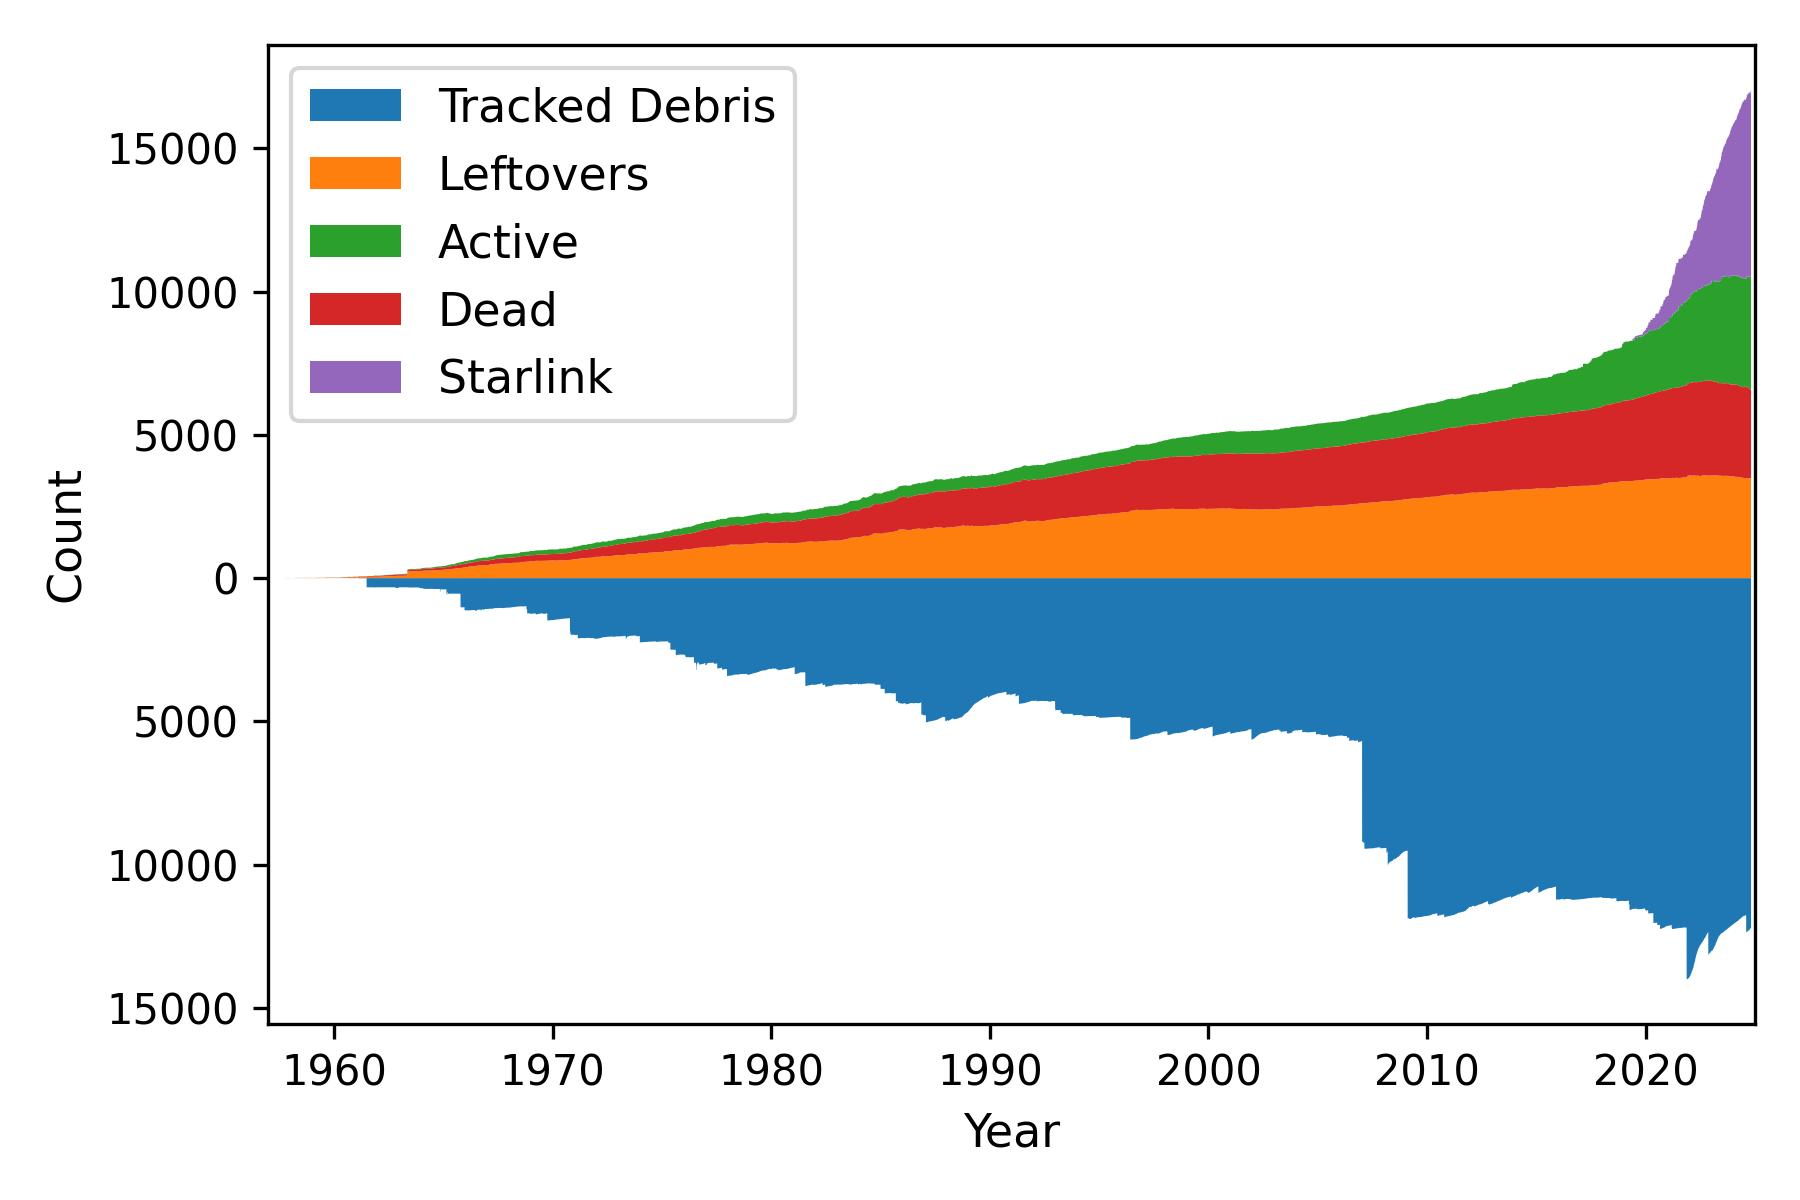
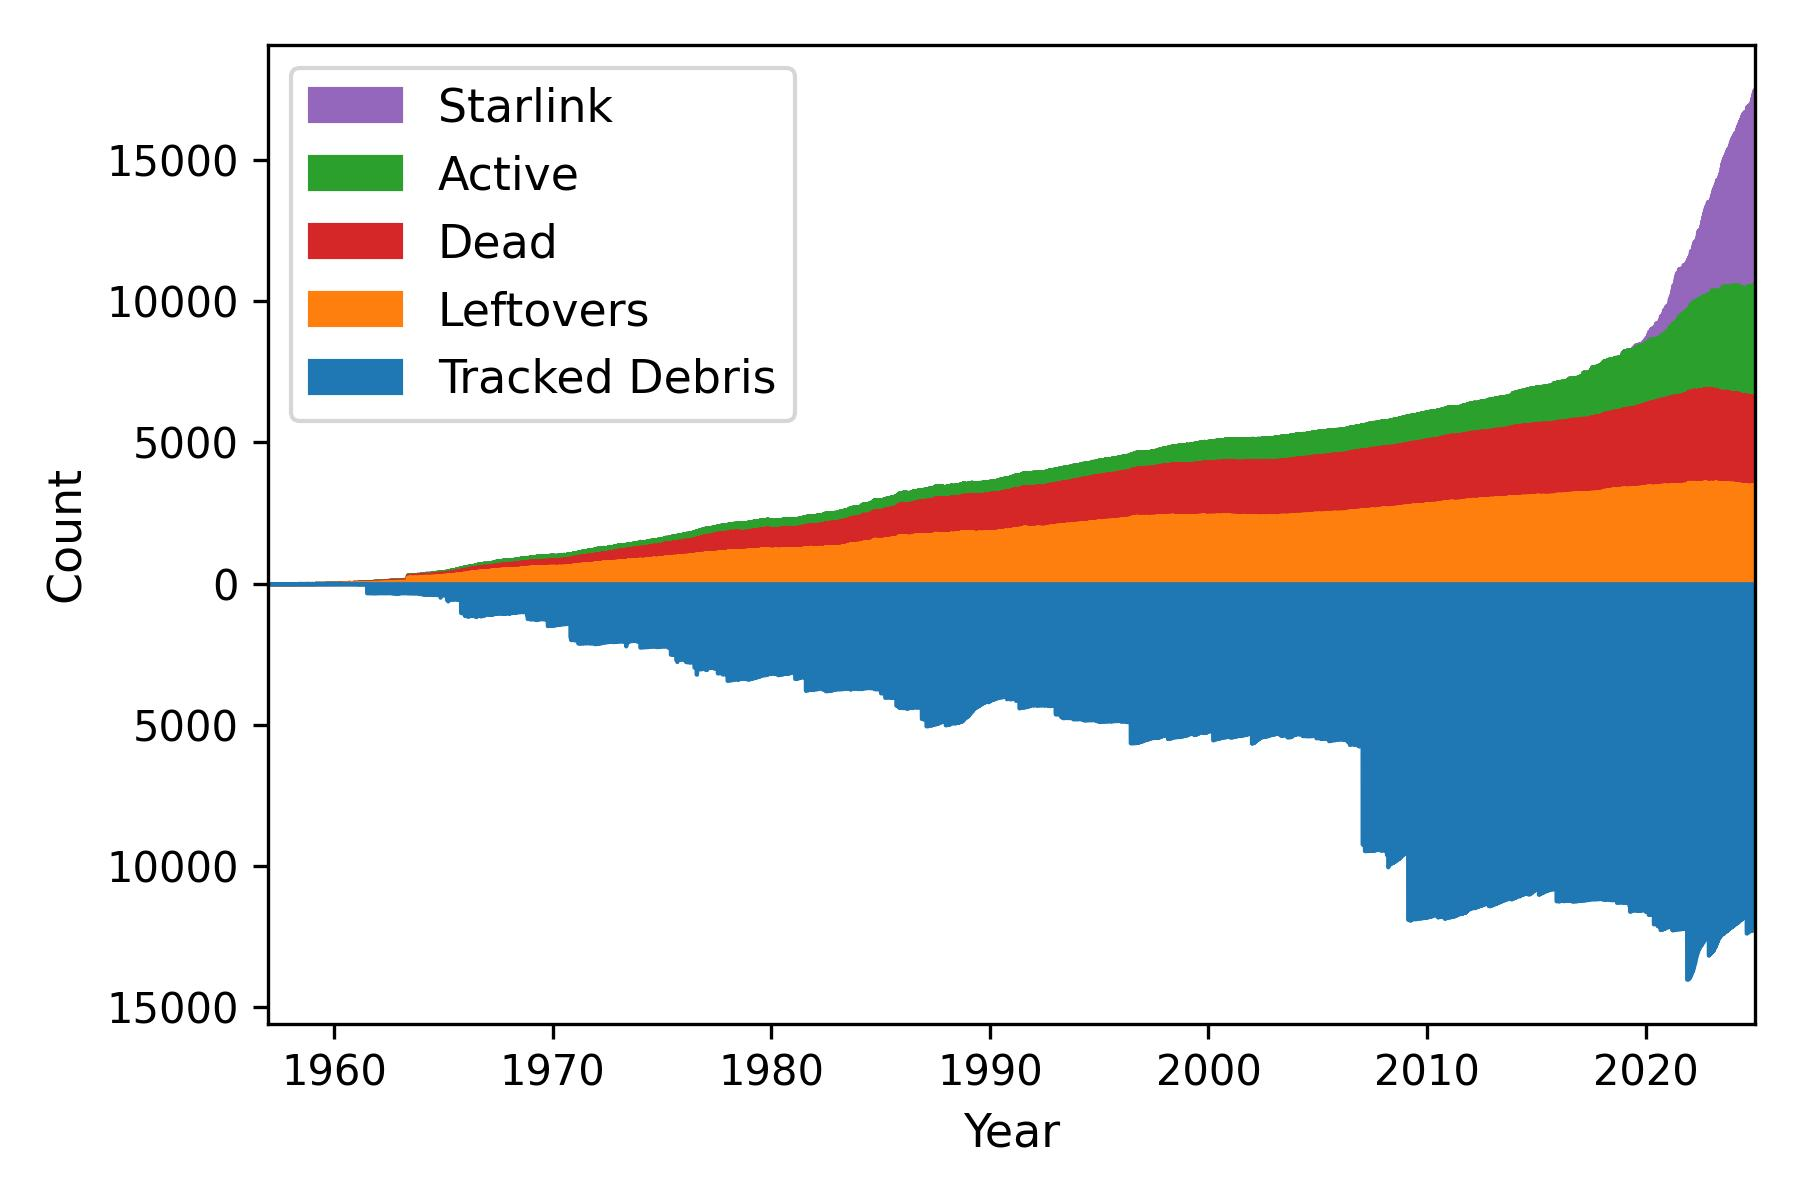
update numbers to the end of 2024, reverse legend to match plot

diff --git a/stat002.py b/stat002.py
@@ -28,11 +28,11 @@ for i in range(0,numyears):
 fig, ax = plt.subplots(figsize=(6.0, 4.0), dpi=300)
 ax.ticklabel_format(style='plain')
 ax.ticklabel_format(useOffset=False)
-ax.fill_between(year,0,-debris,label='Tracked Debris')
-ax.fill_between(year,leftovers,0,label='Leftovers')
-ax.fill_between(year,leftovers+dead+active,leftovers+dead,label='Active')
-ax.fill_between(year,leftovers+dead,leftovers,label='Dead')
-ax.fill_between(year,leftovers+dead+active+starlink,leftovers+dead+active,label='Starlink')
+ax.fill_between(year,leftovers+dead+active+starlink,leftovers+dead+active,label='Starlink',color='tab:purple')
+ax.fill_between(year,leftovers+dead+active,leftovers+dead,label='Active',color='tab:green')
+ax.fill_between(year,leftovers+dead,leftovers,label='Dead',color='tab:red')
+ax.fill_between(year,leftovers,0,label='Leftovers',color='tab:orange')
+ax.fill_between(year,0,-debris,label='Tracked Debris',color='tab:blue')
 plt.xlim(1957,2025)
 # plt.ylim(0,20000)
 ax.yaxis.set_major_formatter(major_formatter)
@@ -44,3 +44,5 @@ plt.tight_layout()
 # plt.savefig('stat002.png')
 plt.savefig('stat002.jpg')
 # plt.savefig('stat002.pdf')
+print(starlink)
+print(active+starlink)
